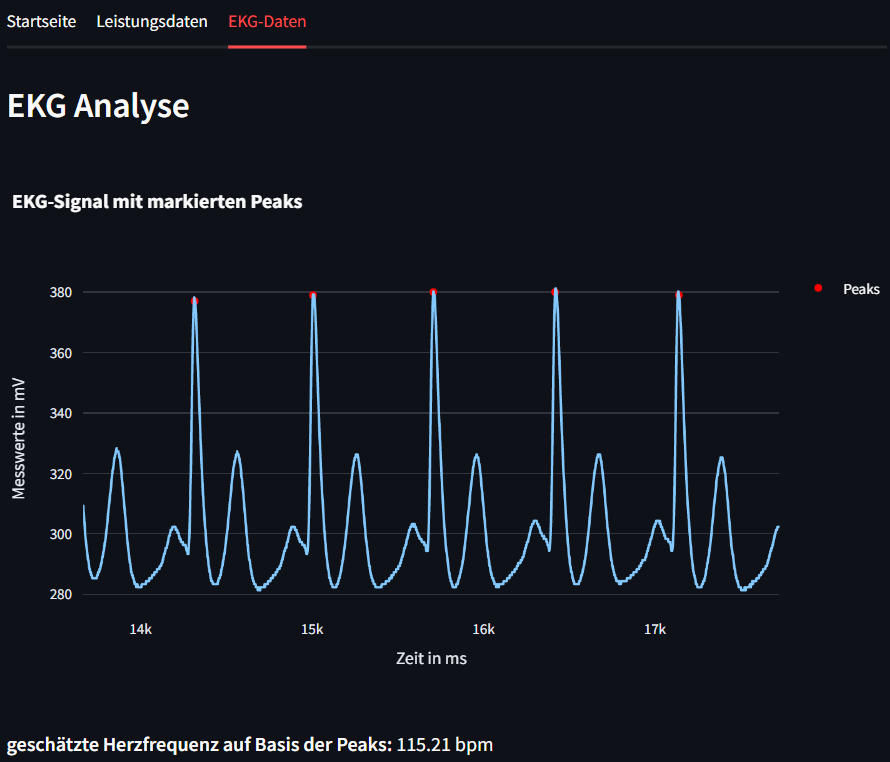
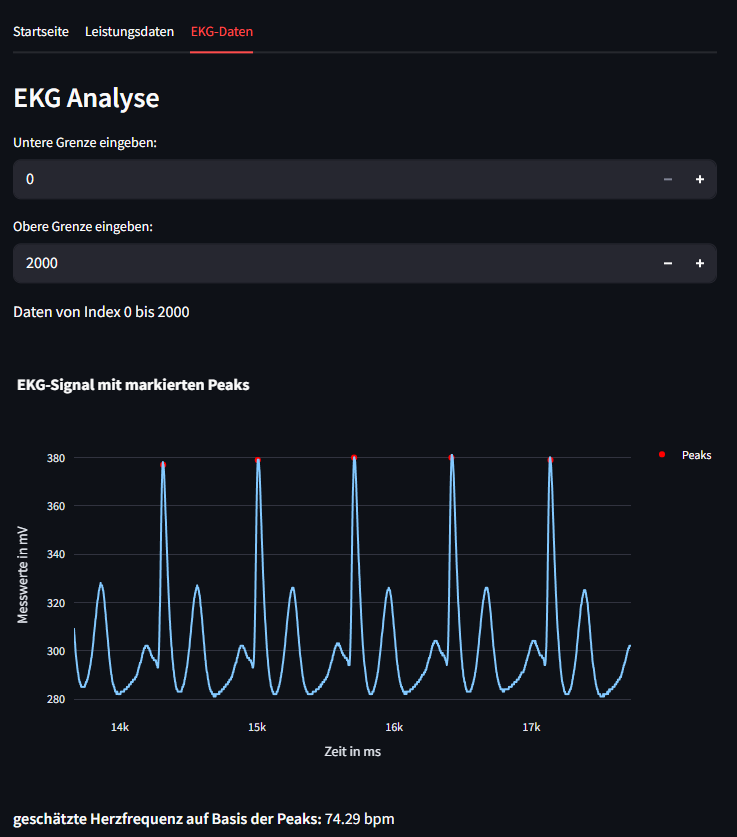
Abgabe: Objektorientierung

diff --git a/main.py b/main.py
@@ -3,11 +3,14 @@ from PIL import Image
 import read_data  # Dein Modul
 from read_data import find_person_data_by_name
 import pandas as pd
+import numpy as np
 import plotly.express as px
 from read_pandas import read_my_csv, make_plot, zone_colors, zonen_Farben_erstellen, hr_zonen_definieren
+from ekgdata import EKGdata
+
 
 # Tabs
-tab1, tab2 = st.tabs(["Startseite", "Daten"])
+tab1, tab2, tab3 = st.tabs(["Startseite", "Leistungsdaten", "EKG-Daten"])
 
 # TAB 1 – STARTSEITE
 with tab1:
@@ -19,27 +22,40 @@ with tab1:
     person_dict = read_data.load_person_data()
     person_names = read_data.get_person_list(person_dict)
 
-    # Auswahl merken
     selected_person = st.selectbox("Versuchsperson auswählen", options=person_names, key="person_select")
 
     if selected_person:
-        # Speichern in session_state
         st.session_state.current_user = selected_person
-
         current_person = find_person_data_by_name(selected_person)
+
         if current_person and "picture_path" in current_person:
             image = Image.open(current_person["picture_path"])
             st.image(image, caption=selected_person)
         else:
             st.warning("Kein Bild für diese Person gefunden.")
+        st.markdown(f"**Name:** {current_person['firstname']} {current_person['lastname']}")
+        st.markdown(f"**Geburtsdatum:** {current_person['date_of_birth']}")
+        st.markdown(f"**Geschlecht:** {current_person['gender']}")
+        st.markdown(f"**ID:** {current_person['id']}")
 
-        # Testauswahl
-        st.markdown("## Test auswählen:")
-        testliste = ["Test 1", "Test 2", "Test 3"]
-        selected_test = st.selectbox("Vorhandene Tests:", testliste, key="test_select")
-        
-        # Speichern in session_state
-        st.session_state.selected_test = selected_test
+    # Auswahl für den Leistungstest (z.B. immer nur einer)
+    # Testauswahl – Leistungstest (statisch, bleibt wie gehabt)
+    st.markdown("## Leistungstest auswählen:")
+    leistungstests = ["Test 1"]
+    selected_test = st.selectbox("Vorhandene Leistungstests:", leistungstests, key="test_select")
+    st.session_state.selected_test = selected_test
+
+    # EKG-Testauswahl anhand verfügbarer EKG-Tests in JSON
+    st.markdown("## EKG Analyse auswählen:")
+    if "ekg_tests" in current_person:
+        ekg_tests = current_person["ekg_tests"]
+        ekg_test_options = [f"Test {i+1}" for i in range(len(ekg_tests))]
+        selected_ekg_test = st.selectbox("Vorhandene EKG-Tests:", ekg_test_options, key="ekg_test_select")
+        st.session_state.selected_test_index = ekg_test_options.index(selected_ekg_test)
+    else:
+        st.warning("Keine EKG-Tests vorhanden.")
+
+
 
 # TAB 2 – DATEN
 with tab2:
@@ -89,3 +105,70 @@ with tab2:
                 st.dataframe(mean_power.rename("Leistung (W)"))
         else:
             st.info("Bitte klicken Sie auf 'Aktualisieren', nachdem die maximale Herzfrequenz geändert wurde.")
+
+
+# TAB 3 – EKG-DATEN
+with tab3:
+    if "current_user" not in st.session_state or "selected_test_index" not in st.session_state:
+        st.warning("Bitte wähle zuerst eine Person und einen EKG-Test auf der Startseite aus.")
+    else:
+        st.subheader("EKG Analyse")
+
+        current_person = find_person_data_by_name(st.session_state.current_user)
+        test_index = st.session_state.selected_test_index
+
+        try:
+            ekg_dict = current_person["ekg_tests"][test_index]
+            ekg = EKGdata(ekg_dict)
+
+            # Peaks und Herzfrequenz berechnen
+            peaks = ekg.find_peaks(threshold=340, respacing_factor=5)
+            heart_rates, avg_hr = ekg.estimate_heart_rate(peaks)
+
+            # Plot
+            min_val = st.number_input(
+                'Untere Grenze eingeben:',
+                min_value=0,
+                max_value=len(ekg.df) - 1,
+                value=0,
+                step=1
+            )
+
+            max_val = st.number_input(
+                'Obere Grenze eingeben:',
+                min_value=min_val + 1,
+                max_value=len(ekg.df),
+                value=min(len(ekg.df), min_val + 100),
+                step=1
+            )
+            st.write(f'Daten von Index {min_val} bis {max_val}')
+
+            # Daten im gewählten Zeitfenster extrahieren
+            df_plot = ekg.df.iloc[min_val:max_val]
+            fig = px.line(df_plot, x="Zeit in ms", y="Messwerte in mV", title="EKG-Signal mit markierten Peaks")
+
+            # Peaks als Marker hinzufügen, korrekt in Bezug auf den Original-Index
+            peaks_in_range = [p for p in peaks if min_val <= p < max_val]
+            if peaks_in_range:
+                peak_times = ekg.df["Zeit in ms"].iloc[peaks_in_range]
+                peak_values = ekg.df["Messwerte in mV"].iloc[peaks_in_range]
+
+                fig.add_scatter(
+                    x=peak_times,
+                    y=peak_values,
+                    mode="markers",
+                    marker=dict(color="red", size=6),
+                    name="Peaks"
+                )
+
+            st.plotly_chart(fig, use_container_width=True)
+
+            #st.markdown(f"**Anzahl erkannter Peaks:** {len(peaks)}")
+
+            if avg_hr:
+                st.markdown(f"**geschätzte Herzfrequenz auf Basis der Peaks:** {avg_hr:.2f} bpm")
+            else:
+                st.warning("Keine Peaks erkannt - Herzfrequenz konnte nicht berechnet werden.")
+
+        except (IndexError, KeyError):
+            st.error("Der gewählte Test konnte nicht geladen werden.")

diff --git a/ekgdata.py b/ekgdata.py
@@ -1,0 +1,127 @@
+import json
+import pandas as pd
+import plotly.express as px
+import plotly.io as pio
+import plotly.graph_objects as go
+pio.renderers.default = "browser"
+
+# Klasse EKG-Data für Peakfinder, die uns ermöglicht peaks zu finden
+
+class EKGdata:
+
+## Konstruktor der Klasse soll die Daten einlesen
+
+    @staticmethod
+    def load_EKG_data():
+        """A Function that knows where te person Database is and returns a Dictionary with the Persons"""
+        file = open("data/person_db.json")
+        person_data = json.load(file)
+        return person_data
+
+    @staticmethod    
+    def load_by_id(such_id):
+        person_data = EKGdata.load_EKG_data()
+        if such_id == "None":
+            return {}
+
+        for eintrag in person_data:
+            if (eintrag["id"] == such_id):
+                return eintrag
+        else:
+            return {}
+
+    def find_peaks(self, threshold, respacing_factor=5):
+        """
+        A function to find the peaks in a series
+        Args:
+            - series (pd.Series): The series to find the peaks in
+            - threshold (float): The threshold for the peaks
+            - respacing_factor (int): The factor to respace the series
+        Returns:
+            - peaks (list): A list of the indices of the peaks
+        """
+        
+        series = self.df['Messwerte in mV'].iloc[::respacing_factor]
+        
+        # Filter the series
+        series = series[series>threshold]
+
+
+        peaks = []
+        last = 0
+        current = 0
+        next = 0
+
+        for index, row in series.items():
+            last = current
+            current = next
+            next = row
+
+            if last < current and current > next and current > threshold:
+                peaks.append(index-respacing_factor)
+        return peaks
+
+    def estimate_heart_rate(self, peaks):
+        heart_rates = []
+        zeit_in_ms = self.df["Zeit in ms"]
+        for i in range(len(peaks) - 1):
+            interval = zeit_in_ms.iloc[peaks[i+1]] - zeit_in_ms.iloc[peaks[i]]
+            if interval > 0:
+                bpm = 60000 / interval
+                heart_rates.append(bpm)
+        avg_heart_rate = sum(heart_rates) / len(heart_rates) if heart_rates else 0
+        return heart_rates, avg_heart_rate
+
+
+    def __init__(self, ekg_dict):
+        #pass
+        self.id = ekg_dict["id"]
+        self.date = ekg_dict["date"]
+        self.data = ekg_dict["result_link"]
+        self.df = pd.read_csv(self.data, sep='\t', header=None, names=['Messwerte in mV','Zeit in ms',]) 
+
+
+    def plot_time_series(self, threshold=30, respacing_factor=5, min_val=0, max_val=None):
+        if max_val is None:
+            max_val = len(self.df)
+        
+        peaks = self.find_peaks(threshold=threshold, respacing_factor=respacing_factor)
+
+        df_plot = self.df.iloc[min_val:max_val]
+        #df_plot = self.df.head(2000)
+        fig = px.line(df_plot, x="Zeit in ms", y="Messwerte in mV", title="EKG-Signal mit markierten Peaks")
+
+        peaks_in_range = [p for p in peaks if p < len(df_plot)]
+        peak_values = self.df.iloc[peaks_in_range]
+
+        fig.add_trace(go.Scatter(
+            x=peak_values["Zeit in ms"],
+            y=peak_values["Messwerte in mV"],
+            mode='markers',
+            marker=dict(color='red', size=6),
+            name='Peaks'
+        ))
+
+        fig.show()
+
+        
+
+        
+
+if __name__ == "__main__":
+    #print("This is a module with some functions to read the EKG data")
+    file = open("data/person_db.json")
+    person_data = json.load(file)
+    ekg_dict = person_data[0]["ekg_tests"][0]
+    #print(ekg_dict)
+    ekg = EKGdata(ekg_dict)
+    #print(ekg.df.head())
+
+    #peaks = EKGdata.find_peaks(ekg.df(['Messwerte in mV']), threshold=0.5, respacing_factor=5)
+    peaks = ekg.find_peaks(threshold=340, respacing_factor=5)
+    #print(peaks)
+
+    heart_rate = ekg.estimate_heart_rate(peaks)
+    print(heart_rate)
+
+    ekg.plot_time_series()

diff --git a/README.md b/README.md
@@ -22,14 +22,13 @@ Screenshot:
 
 
 ## Aufgabe 5 - Objektorientierung
-Diese App ermöglicht nun die Analyse und Visualisierung von EKG-Daten und von Leistungsdaten aus verschiedenen Tests. Die Anwendung basiert auf **Streamlit** und ist als **PDM-Projekt** aufgesetzt. 
-neue Funktionen:
-- Auswahl und Darstellung von Testpersonen (inkl. Bild und Basisdaten wie Name, Geburtsdatum, Geschlecht und id)
-- Visualisierung von EKG Daten in einem interaktiven Plot durch **Plotly** mit Peak-Erkennung 
-- Ablesen der geschätzten Herzfrequenz auf Basis der Peaks
-- Anzeige durchschnittlicher Leistungs- und HF-Daten pro Zone
+Im Rahmen dieser Aufgabe wurde eine interaktive Streamlit-Anwendung zur Analyse und Visualisierung von EKG- und Leistungsdaten entwickelt. Die App ist als PDM-Projekt strukturiert und kombiniert moderne Visualisierungstechniken mit objektorientierter Programmierung.
 
-Um die App zu starten, muss zunächst wieder das Repository von GitHub auf den eigenen Rechner geklont werden. Dazu wird der Befehl git clone verwendet.Falls das Repository bereits zuvor geklont wurde, können Änderungen aus dem GitHub-Repository jederzeit mit dem Befehl git pull auf den lokalen Rechner übertragen und das Projekt aktualisiert werden. Anschließend müssen die benötigten Abhängigkeiten installiert werden. Mit dem Befehl "streamlit run app.py" kann die App aktiv gestartet werden. Nach dem Start öffnet sich die Anwendung automatisch im Browser. 
+Die Anwendung ermöglicht zunächst die Auswahl einer Testperson, zu der neben dem Namen auch das Geburtsdatum, Geschlecht, ein Profilbild und eine eindeutige ID angezeigt werden. Für jede ausgewählte Person können verschiedene EKG-Tests eingesehen werden. Die EKG-Daten werden mithilfe von Plotly interaktiv dargestellt. Dabei kommt eine Peak-Erkennung zum Einsatz, die automatisch Ausschläge im EKG-Signal identifiziert. Die erkannten Peaks werden visuell hervorgehoben und zur Berechnung der geschätzten Herzfrequenz in bpm verwendet. Zusätzlich besteht die Möglichkeit, den dargestellten Zeitraum des EKG-Signals individuell anzupassen. Dies erfolgt über die Eingabe von Start- und Endindex, sodass gezielt ein bestimmter Ausschnitt des Signals betrachtet und analysiert werden kann.
+
+Neben der EKG-Analyse bietet die App auch eine Leistungsanalyse. Dabei werden durchschnittliche Werte für Herzfrequenz und Leistung in unterschiedlichen Zonen angezeigt, um Rückschlüsse auf die Belastungsintensität zu ermöglichen.
+
+Um die App lokal auszuführen, muss zunächst das entsprechende GitHub-Repository geklont werden. Dies erfolgt über den Befehl git clone. Falls das Projekt bereits lokal vorhanden ist, können mit git pull aktuelle Änderungen aus dem Repository übernommen werden. Nach dem Klonen bzw. Aktualisieren sollten die erforderlichen Abhängigkeiten mithilfe der Datei requirements.txt installiert werden. Anschließend kann die Anwendung mit dem Befehl streamlit run app.py gestartet werden. Die App öffnet sich automatisch im Browser und ist sofort einsatzbereit.
 
 Screenshots:
 ![alt text](screenshot4.png)
